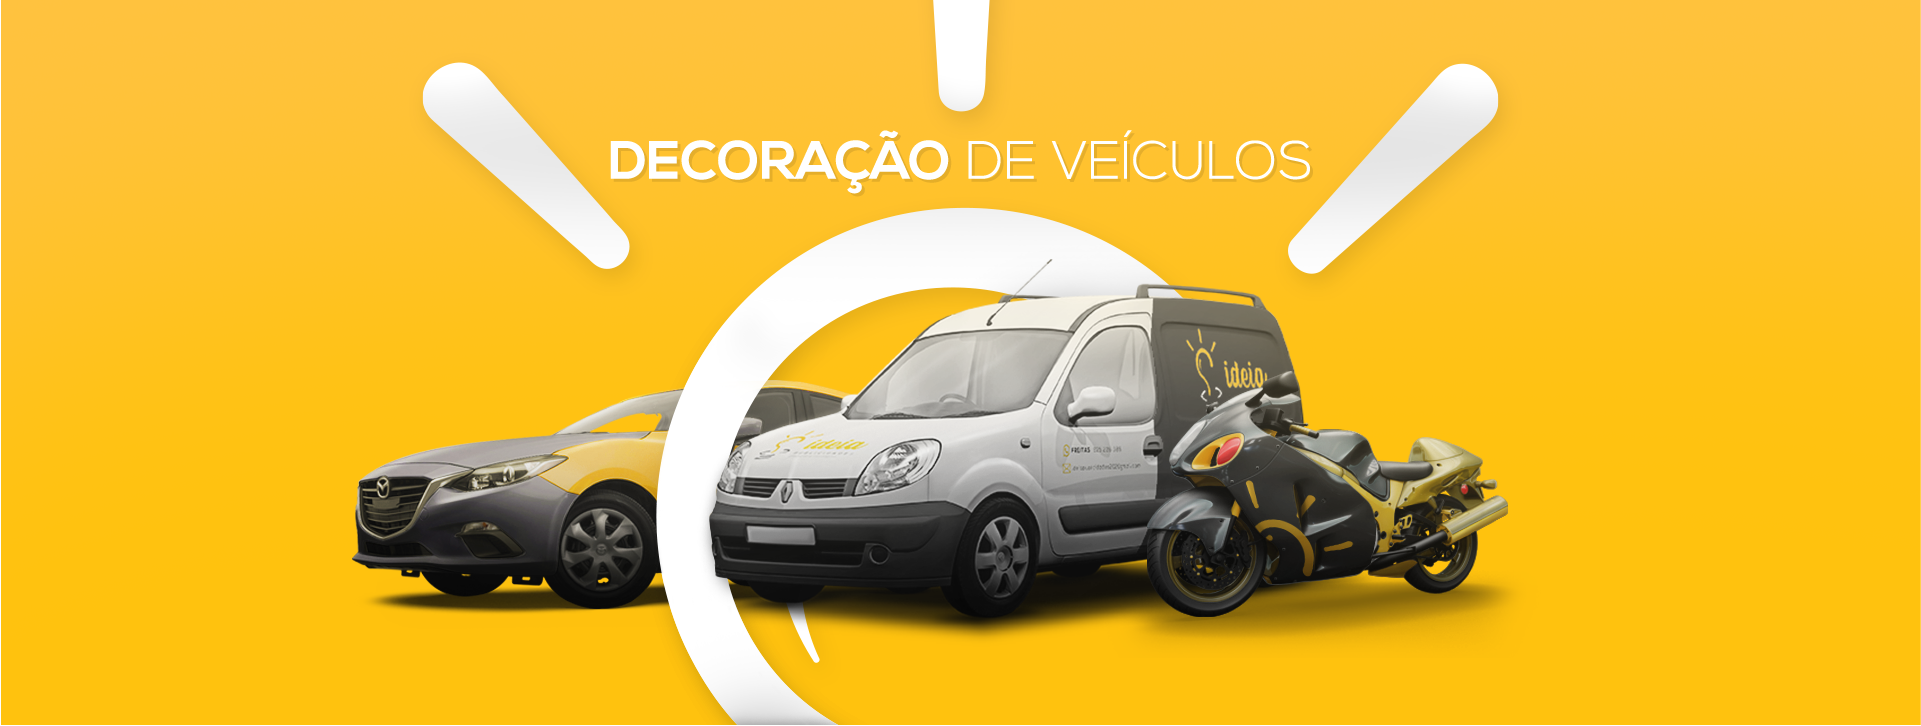
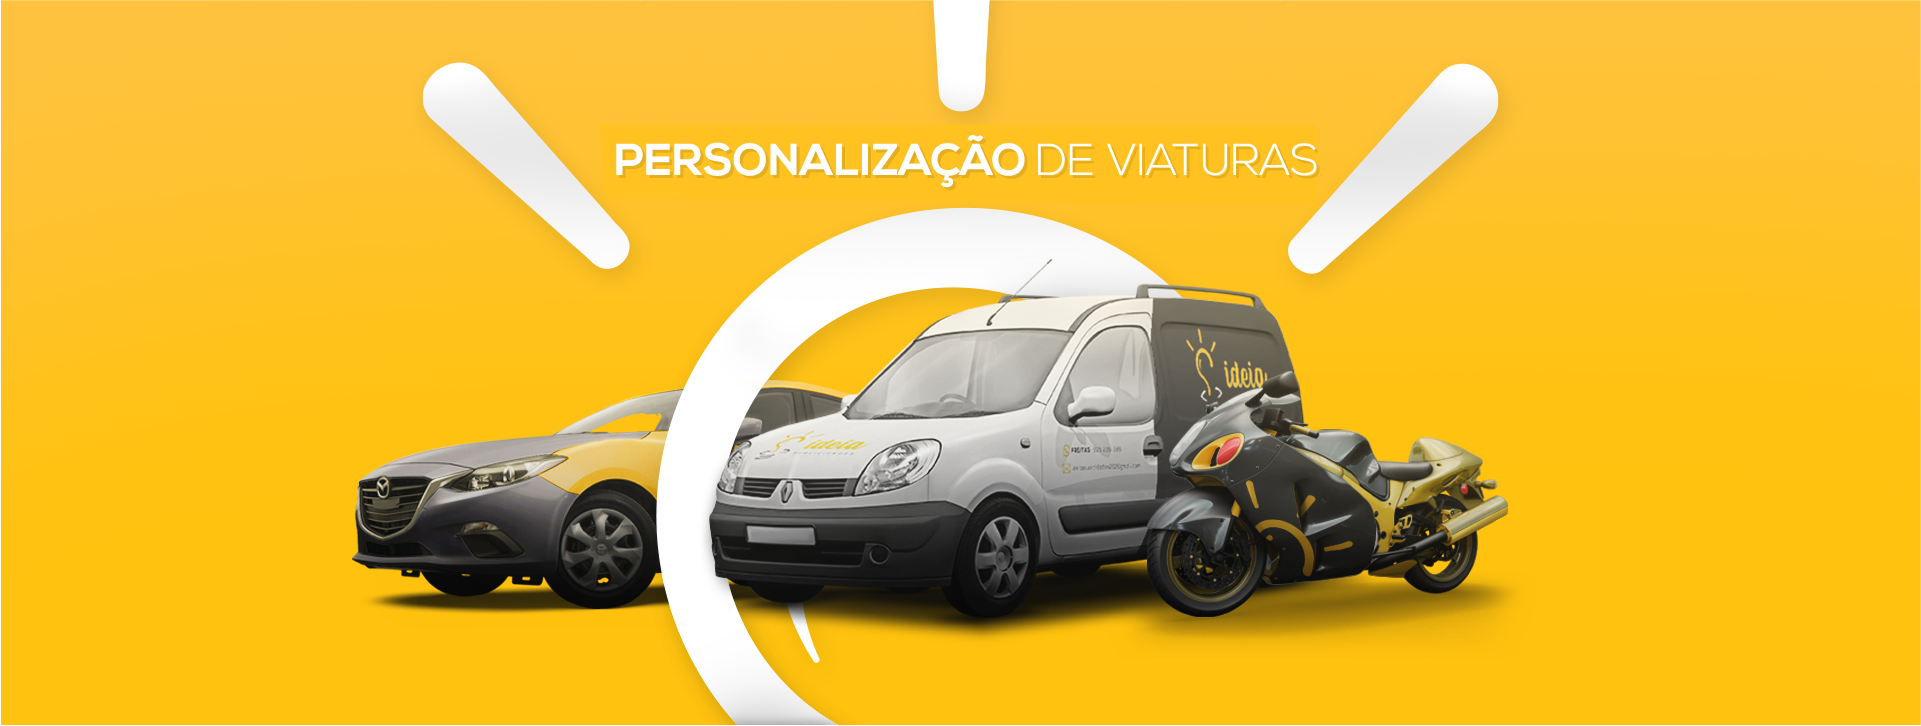
Revision finished

Changed region(s): [[0.3123, 0.1818, 0.6871, 0.2727]]

diff --git a/index.html b/index.html
@@ -88,7 +88,7 @@
                         A “ideia - publicidades, produções e montagem” é uma empresa
                         focada em impressão em telas, painéis, reclamos luminosos,
                         letra caixa alucobond, pvc e acrílico com Leds, cartões de visita,
-                        Flyers, decoração de viaturas e Car Wrapping.
+                        Flyers, personalização de viaturas e Car Wrapping.
                         A nossa missão é identificar a necessidade, entender e
                         compreender para desenvolver soluções criativas, eficazes e
                         personalizadas. Desta forma, materializar o melhor projeto de
@@ -113,7 +113,7 @@
                             </div>
                             <div class="slide" data-interval="5000" data-aos="fade-up" data-aos-duration="1000" data-aos-delay="100">
                                 <a href="./portfolio.html#carrinhas"><img src="./images/portfolio-home/p2.png" alt="" /></a>
-                                <p class="portfolio-text"><i class="fas fa-angle-right"></i> <a href="./portfolio.html#carrinhas">Decoração de Viaturas</a></p>
+                                <p class="portfolio-text"><i class="fas fa-angle-right"></i> <a href="./portfolio.html#carrinhas">personalização de Viaturas</a></p>
                             </div>
                             <div class="slide" data-interval="5000" data-aos="fade-up" data-aos-duration="1000" data-aos-delay="200">
                                 <a href="./portfolio.html#montras"><img src="./images/portfolio-home/p3.png" alt="" /></a>
@@ -145,7 +145,7 @@
             <h2 class="block-title">Contacto</h2>
             <div class="row">
                 <div class="col-md-6">
-                    <iframe class="contact-us-image" src="https://www.google.com/maps/embed?pb=!1m18!1m12!1m3!1d3114.149030102094!2d-9.301376471723257!3d38.691420852338275!2m3!1f0!2f0!3f0!3m2!1i1024!2i768!4f13.1!3m3!1m2!1s0xd1ec94836af0e59%3A0xe34a47f1f30ca583!2sR.%20Jos%C3%A9%20Henriques%20Coelho%2C%20Pa%C3%A7o%20de%20Arcos%2C%20Portogallo!5e0!3m2!1sit!2sit!4v1603386265624!5m2!1sit!2sit" data-aos="fade-right" data-aos-duration="1000" width="100%" height="300px" frameborder="0" style="border:0;" allowfullscreen="" aria-hidden="false" tabindex="0"></iframe>
+                    <iframe class="contact-us-image" src="https://www.google.com/maps/embed?pb=!1m18!1m12!1m3!1d3114.1002045981704!2d-9.301902183441312!3d38.692542466595704!2m3!1f0!2f0!3f0!3m2!1i1024!2i768!4f13.1!3m3!1m2!1s0xd1ec94836af0e59%3A0xe34a47f1f30ca583!2sR.%20Jos%C3%A9%20Henriques%20Coelho%2C%20Pa%C3%A7o%20de%20Arcos!5e0!3m2!1spt-PT!2spt!4v1603647596087!5m2!1spt-PT!2spt" data-aos="fade-right" data-aos-duration="1000" width="100%" height="300px" frameborder="0" style="border:0;" allowfullscreen="" aria-hidden="false" tabindex="0"></iframe>
                 </div>
                 <div class="col-md-6 contact-us-desc">
                     <img class="contact-us-logo" src="images/logo.png" alt="Ideia Publicidade Logo">
@@ -154,7 +154,7 @@
                     </p>
                     <ul>
                         <li>Caixas de Luz</li>
-                        <li>Carrinhas Decoracao</li>
+                        <li>personalização de Viaturas</li>
                         <li>Montras Decoracao</li>
                         <li>Dibond</li>
                         <li>Neon Led</li>

diff --git a/portfolio.html b/portfolio.html
@@ -68,7 +68,7 @@
 
             <div class="port">
                 <section class="portfolio-category" data-aos="fade-right" data-aos-duration="1000">
-                    <h3>Carrinhas <span>Decoração</span></h3>
+                    <h3>personalização <span>de Viaturas</span></span></h3>
                 </section>
                 <div class="portfolio-sub-section" id="carrinhas">
                     <div class="row">
@@ -194,7 +194,7 @@
             <h2 class="block-title">Contacto</h2>
             <div class="row">
                 <div class="col-md-6">
-                    <iframe class="contact-us-image" src="https://www.google.com/maps/embed?pb=!1m18!1m12!1m3!1d3114.149030102094!2d-9.301376471723257!3d38.691420852338275!2m3!1f0!2f0!3f0!3m2!1i1024!2i768!4f13.1!3m3!1m2!1s0xd1ec94836af0e59%3A0xe34a47f1f30ca583!2sR.%20Jos%C3%A9%20Henriques%20Coelho%2C%20Pa%C3%A7o%20de%20Arcos%2C%20Portogallo!5e0!3m2!1sit!2sit!4v1603386265624!5m2!1sit!2sit" data-aos="fade-right" data-aos-duration="1000" width="100%" height="300px" frameborder="0" style="border:0;" allowfullscreen="" aria-hidden="false" tabindex="0"></iframe>
+                    <iframe class="contact-us-image" src="https://www.google.com/maps/embed?pb=!1m18!1m12!1m3!1d3114.1002045981704!2d-9.301902183441312!3d38.692542466595704!2m3!1f0!2f0!3f0!3m2!1i1024!2i768!4f13.1!3m3!1m2!1s0xd1ec94836af0e59%3A0xe34a47f1f30ca583!2sR.%20Jos%C3%A9%20Henriques%20Coelho%2C%20Pa%C3%A7o%20de%20Arcos!5e0!3m2!1spt-PT!2spt!4v1603647596087!5m2!1spt-PT!2spt" data-aos="fade-right" data-aos-duration="1000" width="100%" height="300px" frameborder="0" style="border:0;" allowfullscreen="" aria-hidden="false" tabindex="0"></iframe>
                 </div>
                 <div class="col-md-6 contact-us-desc">
                     <img class="contact-us-logo" src="images/logo.png" alt="Ideia Publicidade Logo">
@@ -203,7 +203,7 @@
                     </p>
                     <ul>
                         <li>Caixas de Luz</li>
-                        <li>Carrinhas Decoracao</li>
+                        <li>personalização de Viaturas</li>
                         <li>Montras Decoracao</li>
                         <li>Dibond</li>
                         <li>Neon Led</li>

diff --git a/css/basic.css b/css/basic.css
@@ -63,7 +63,7 @@ p > span { font-family: 'Nexa Bold', sans-serif; }
 .carousel-caption.special { display: block; }
 .carousel-caption.special h1 { margin: 0; text-shadow: 1px 2px 6px #000; font-family: 'Nexa Bold', sans-serif; font-size: 50px; }
 @media screen and (max-width: 1200px){
-    .carousel, .carousel-inner, .carousel-inner .carousel-item { height: 280px; }
+    .carousel, .carousel-inner, .carousel-inner .carousel-item { height: 260px; }
     .carousel-caption { display: block; }
     .carousel-caption h1 { margin: 0; text-shadow: 1px 2px 6px #000; font-family: 'Nexa Bold', sans-serif; font-size: 50px; }
     /*
